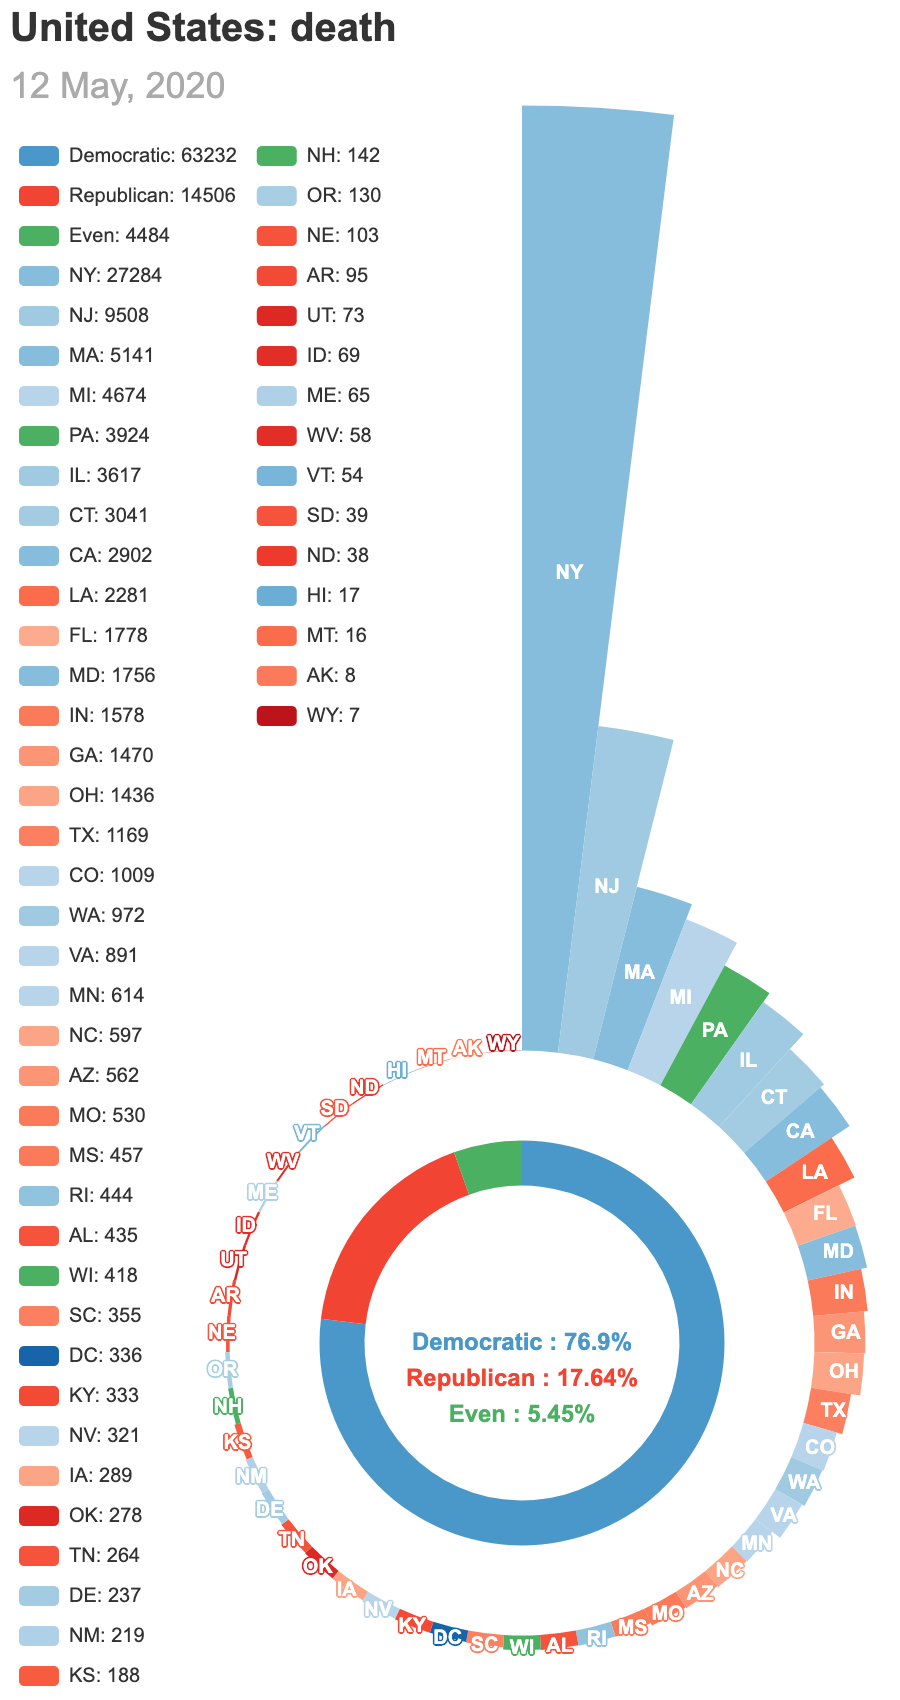
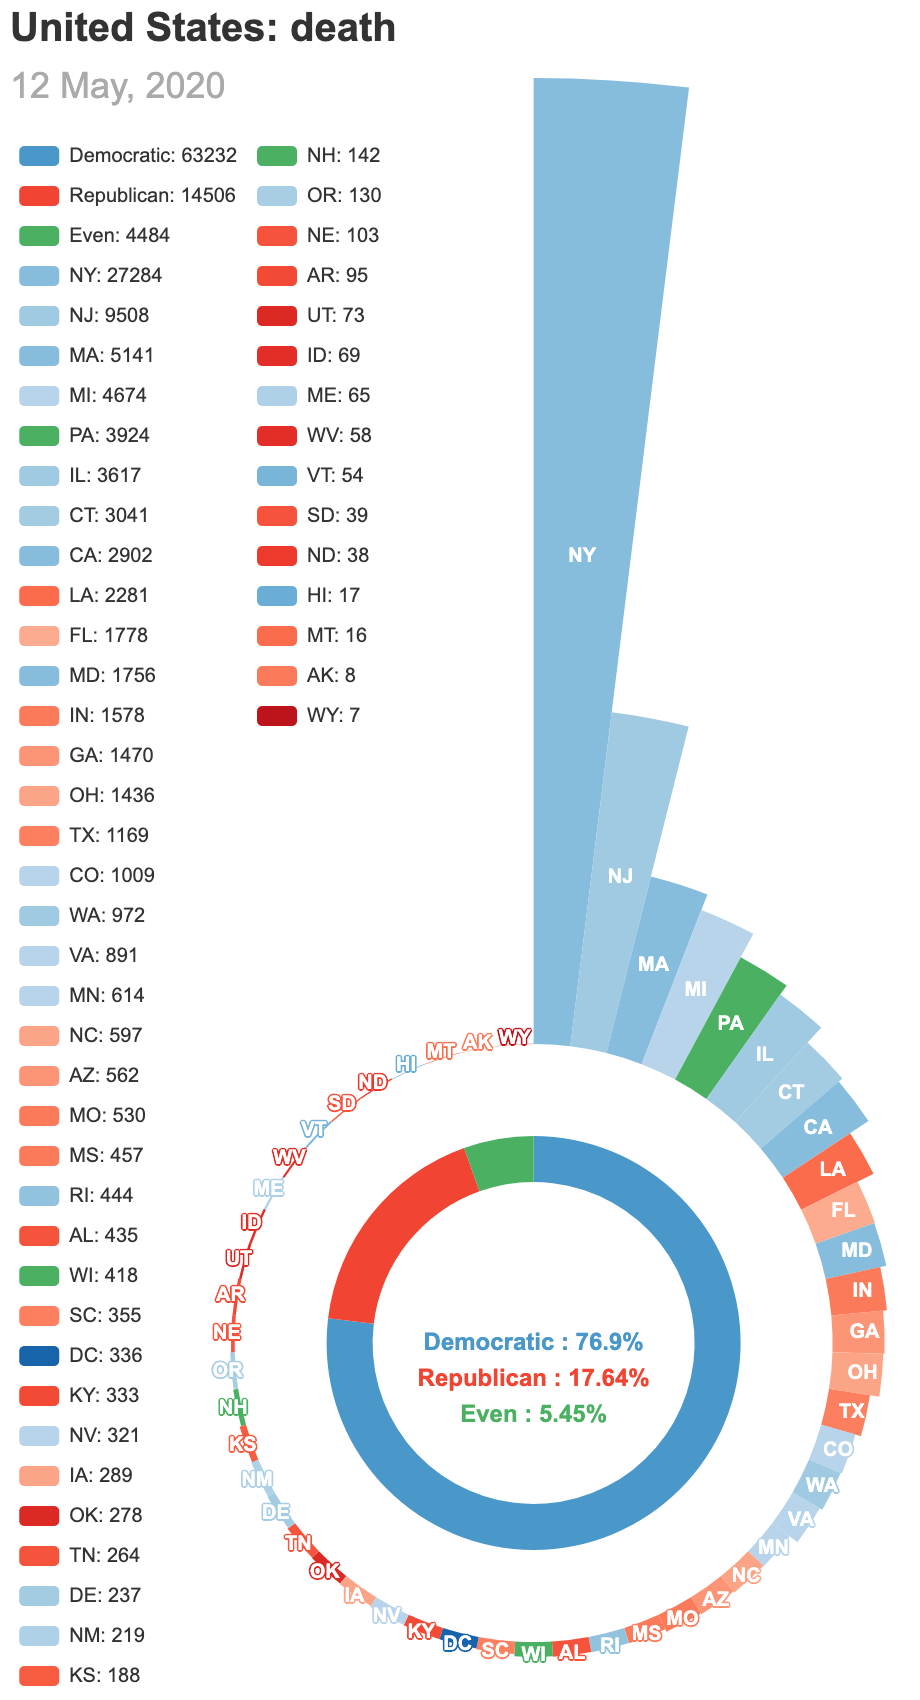
Add files via upload

diff --git a/covid-19/figures_us/US_rose.html b/covid-19/figures_us/US_rose.html
@@ -7,11 +7,11 @@
 
 </head>
 <body>
-    <div id="870aed2960de45f59e51b6da99569779" class="chart-container" style="width:450px; height:850px;"></div>
+    <div id="1d2641ef5ec840999e26fe72d84a1177" class="chart-container" style="width:460px; height:850px;"></div>
     <script>
-        var chart_870aed2960de45f59e51b6da99569779 = echarts.init(
-            document.getElementById('870aed2960de45f59e51b6da99569779'), 'white', {renderer: 'canvas'});
-        var option_870aed2960de45f59e51b6da99569779 = {
+        var chart_1d2641ef5ec840999e26fe72d84a1177 = echarts.init(
+            document.getElementById('1d2641ef5ec840999e26fe72d84a1177'), 'white', {renderer: 'canvas'});
+        var option_1d2641ef5ec840999e26fe72d84a1177 = {
     "animation": true,
     "animationThreshold": 2000,
     "animationDuration": 1000,
@@ -444,7 +444,7 @@
         }
     ]
 };
-        chart_870aed2960de45f59e51b6da99569779.setOption(option_870aed2960de45f59e51b6da99569779);
+        chart_1d2641ef5ec840999e26fe72d84a1177.setOption(option_1d2641ef5ec840999e26fe72d84a1177);
     </script>
 </body>
 </html>

diff --git a/covid-19/figures_us/US_rose_death.html b/covid-19/figures_us/US_rose_death.html
@@ -7,11 +7,11 @@
 
 </head>
 <body>
-    <div id="a1ea3b0afd5e49ba9c5ce9de3567d65f" class="chart-container" style="width:450px; height:850px;"></div>
+    <div id="afe1597593a74d05ac2ac95efda5e1be" class="chart-container" style="width:460px; height:850px;"></div>
     <script>
-        var chart_a1ea3b0afd5e49ba9c5ce9de3567d65f = echarts.init(
-            document.getElementById('a1ea3b0afd5e49ba9c5ce9de3567d65f'), 'white', {renderer: 'canvas'});
-        var option_a1ea3b0afd5e49ba9c5ce9de3567d65f = {
+        var chart_afe1597593a74d05ac2ac95efda5e1be = echarts.init(
+            document.getElementById('afe1597593a74d05ac2ac95efda5e1be'), 'white', {renderer: 'canvas'});
+        var option_afe1597593a74d05ac2ac95efda5e1be = {
     "animation": true,
     "animationThreshold": 2000,
     "animationDuration": 1000,
@@ -444,7 +444,7 @@
         }
     ]
 };
-        chart_a1ea3b0afd5e49ba9c5ce9de3567d65f.setOption(option_a1ea3b0afd5e49ba9c5ce9de3567d65f);
+        chart_afe1597593a74d05ac2ac95efda5e1be.setOption(option_afe1597593a74d05ac2ac95efda5e1be);
     </script>
 </body>
 </html>
